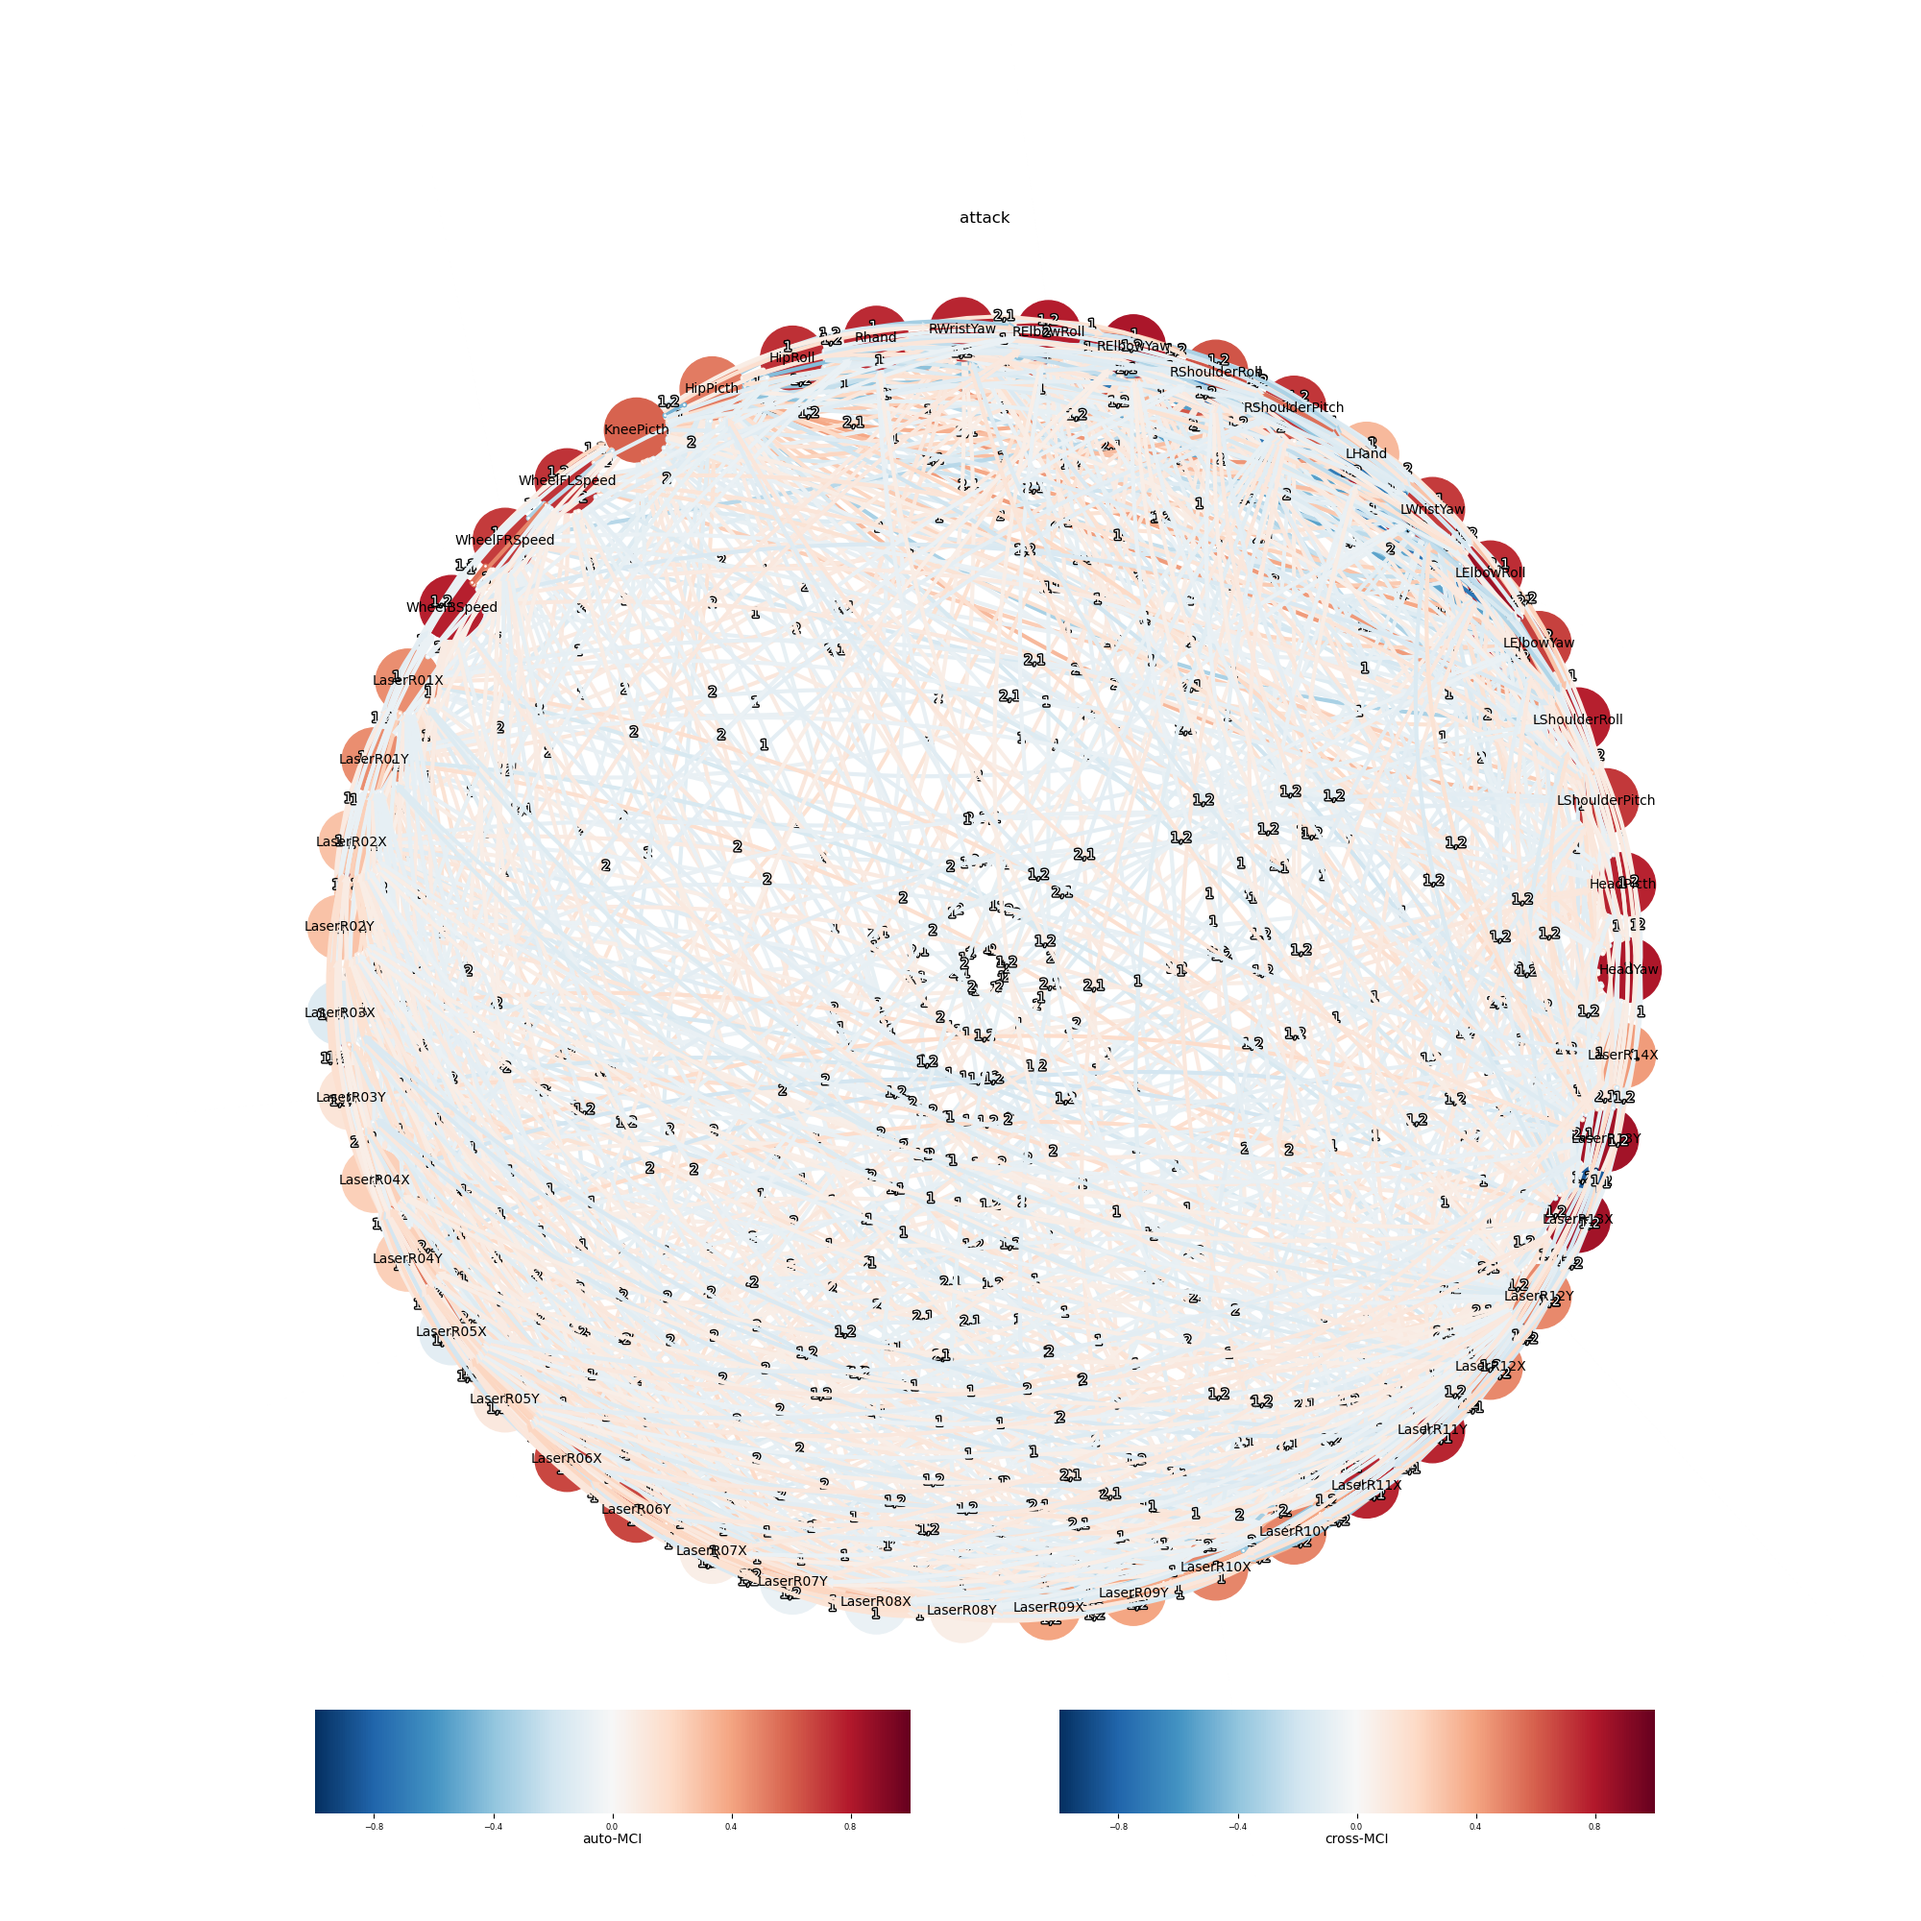
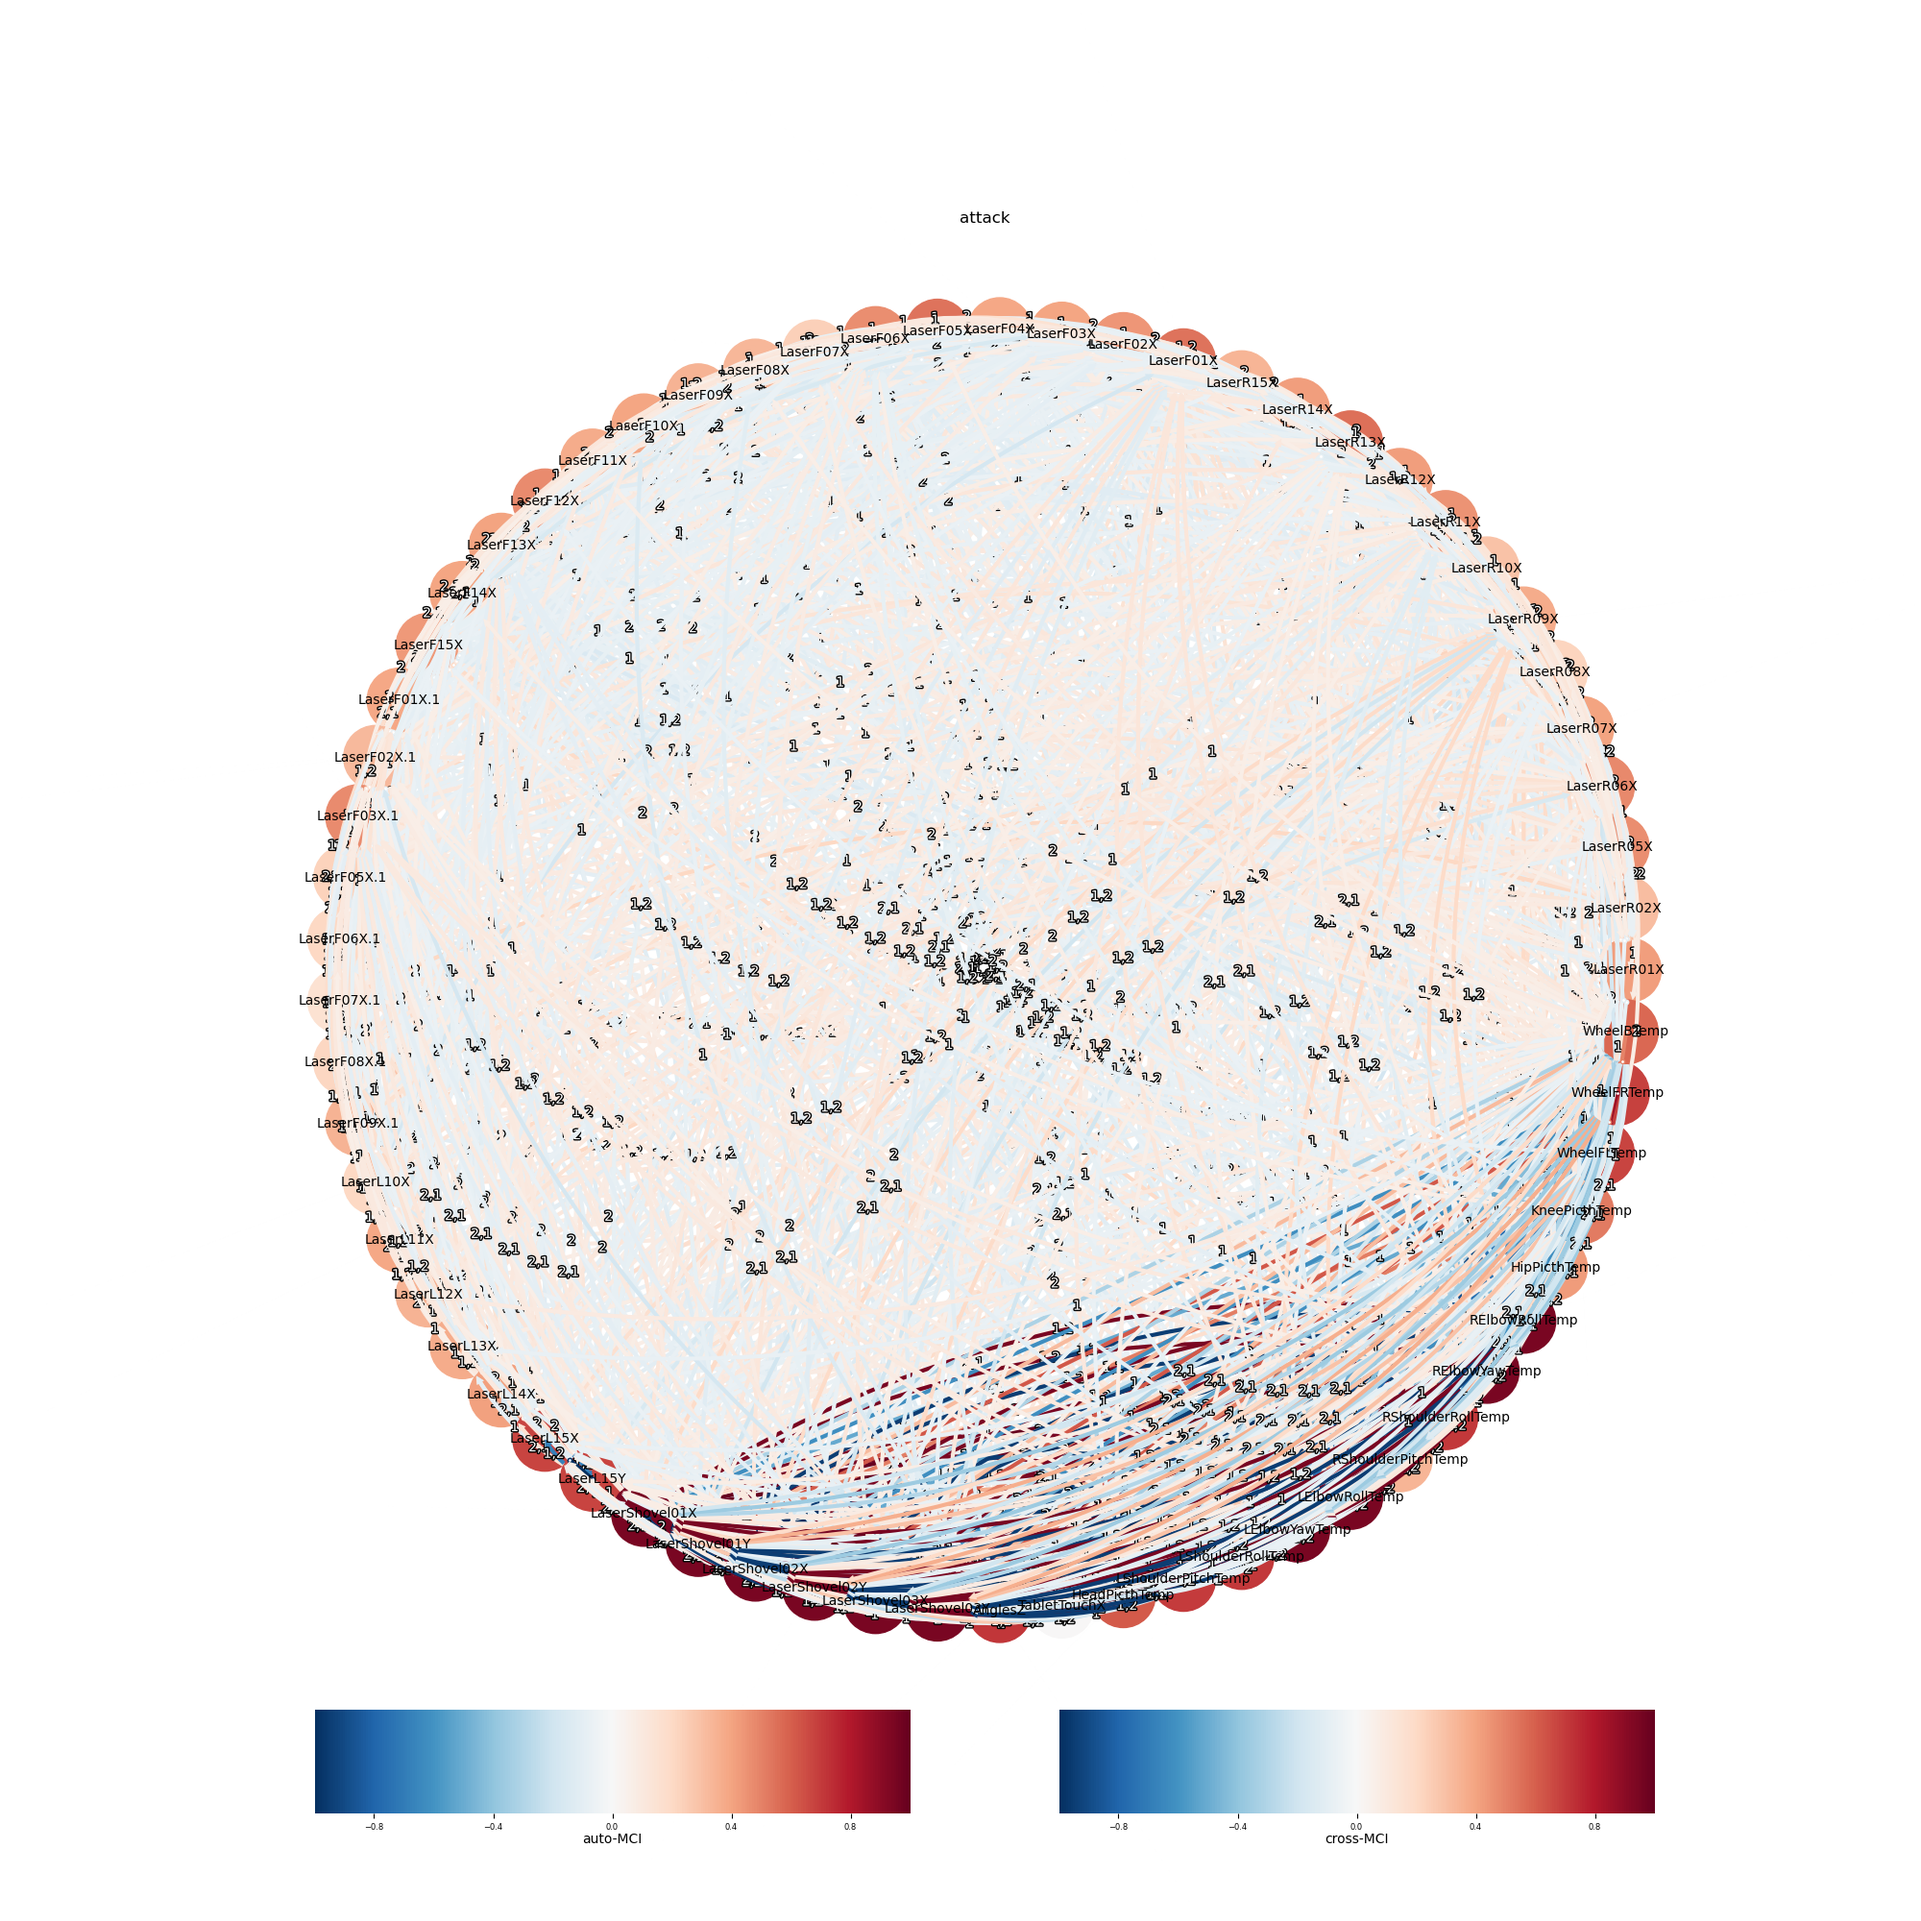
pepper datasets cols removal

Changed region(s): [[0.155, 0.155, 0.868, 0.868]]

diff --git a/main.py b/main.py
@@ -7,7 +7,7 @@ def parse_option():
 
     parser = argparse.ArgumentParser()
     parser.add_argument('--mode', choices=['PCMCI', 'LPCMCI'], default='PCMCI', help='Choose between PCMCI and LPCMCI')
-    parser.add_argument('--dataset_name', choices=['boat', 'pepper', 'swat'], default='boat', help='Select the dataset: boat, pepper or swat')
+    parser.add_argument('--dataset_name', choices=['boat', 'pepper', 'swat'], default='pepper', help='Select the dataset: boat, pepper or swat')
     parser.add_argument('--assumption', choices=['linear', 'not_linear'], default='linear', help='Choose between parcorr and knn')
 
     return parser.parse_args()
@@ -29,9 +29,9 @@ def run(*kwargs):
     normal_df = normal_df.fillna(0)
     attack_df = attack_df.fillna(0)
 
-    # remove 200 columns 
-    normal_df = normal_df.iloc[:, :-200]
-    attack_df = attack_df.iloc[:, :-200]
+    # # remove 200 columns 
+    # normal_df = normal_df.iloc[:, :-200]
+    # attack_df = attack_df.iloc[:, :-200]
 
     # get var names 
     var_names_normal = list(normal_df.columns)

diff --git a/causal_discovery.py b/causal_discovery.py
@@ -43,7 +43,11 @@ def read_preprocess_data(dataset_name, dataset_type, SUBSET_SIZE=SUBSET_SIZE):
 		df.set_index('timestamp', inplace=True)
 		columns_to_drop = ['timestamp']
 		df.drop(columns=[col for col in columns_to_drop if col in df.columns], inplace=True)
-		
+		# Variance for each column
+		variances = df.var()
+		mean_variance = variances.mean()
+		# Remove columns with variance less than mean
+		df = df.loc[:, df.var() > mean_variance]
 		
 		return df
 
